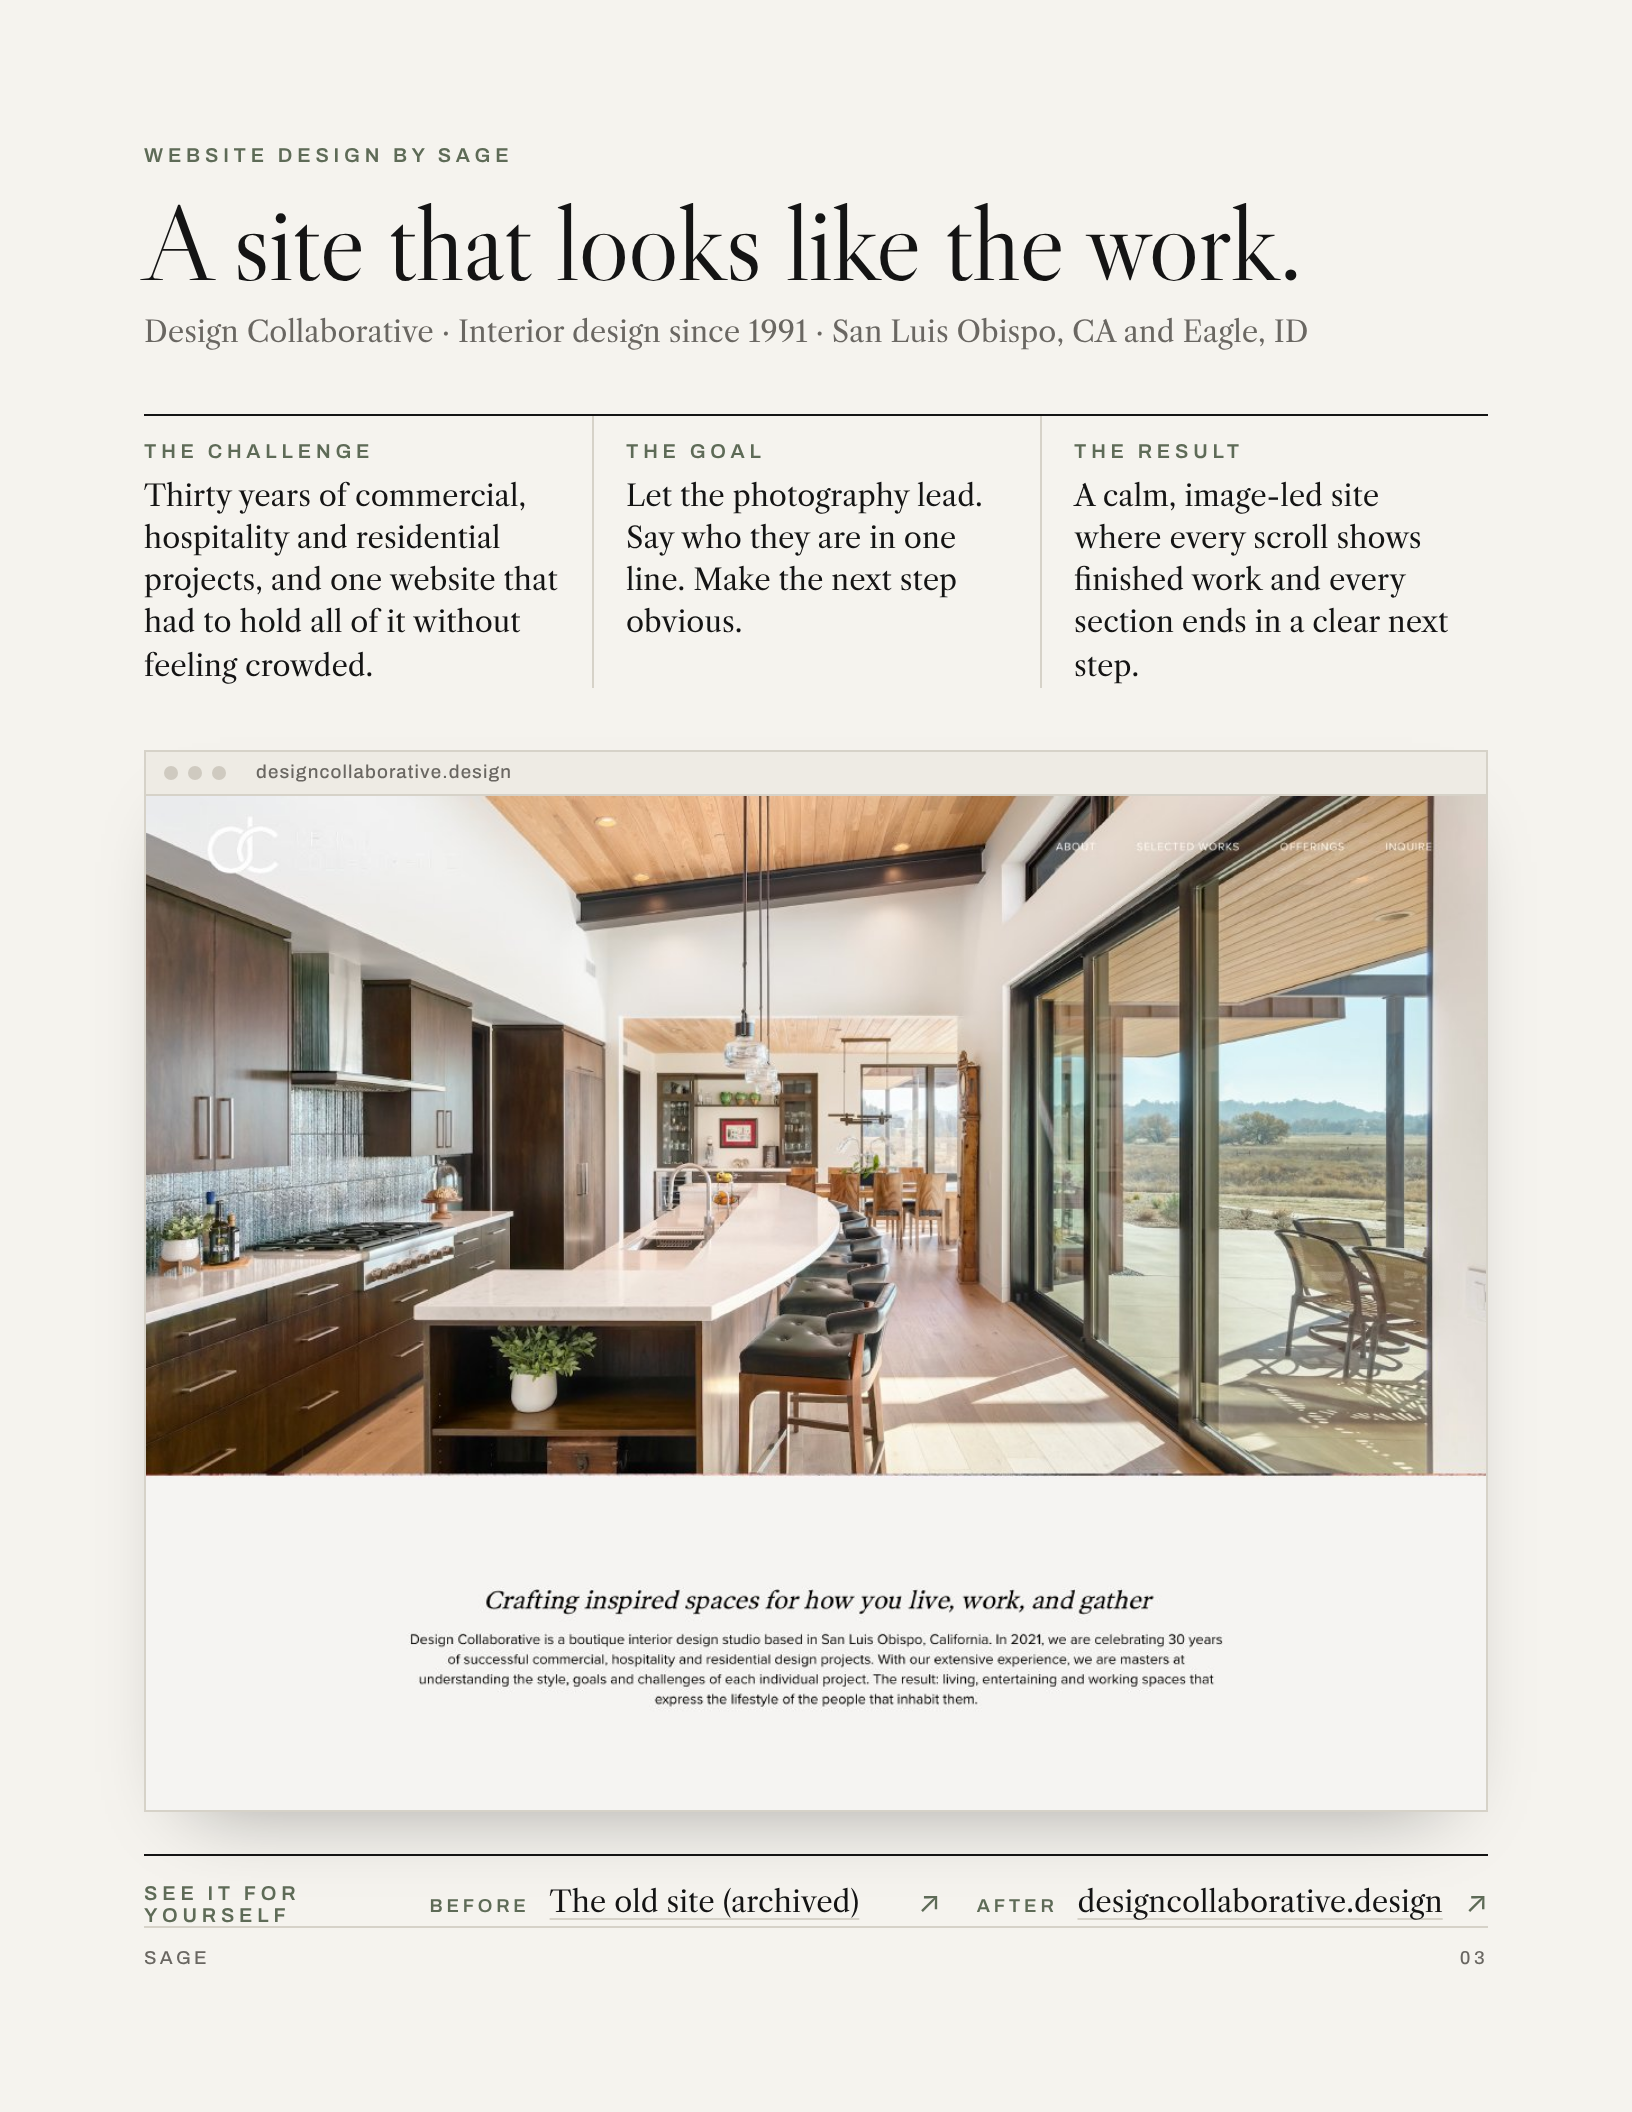
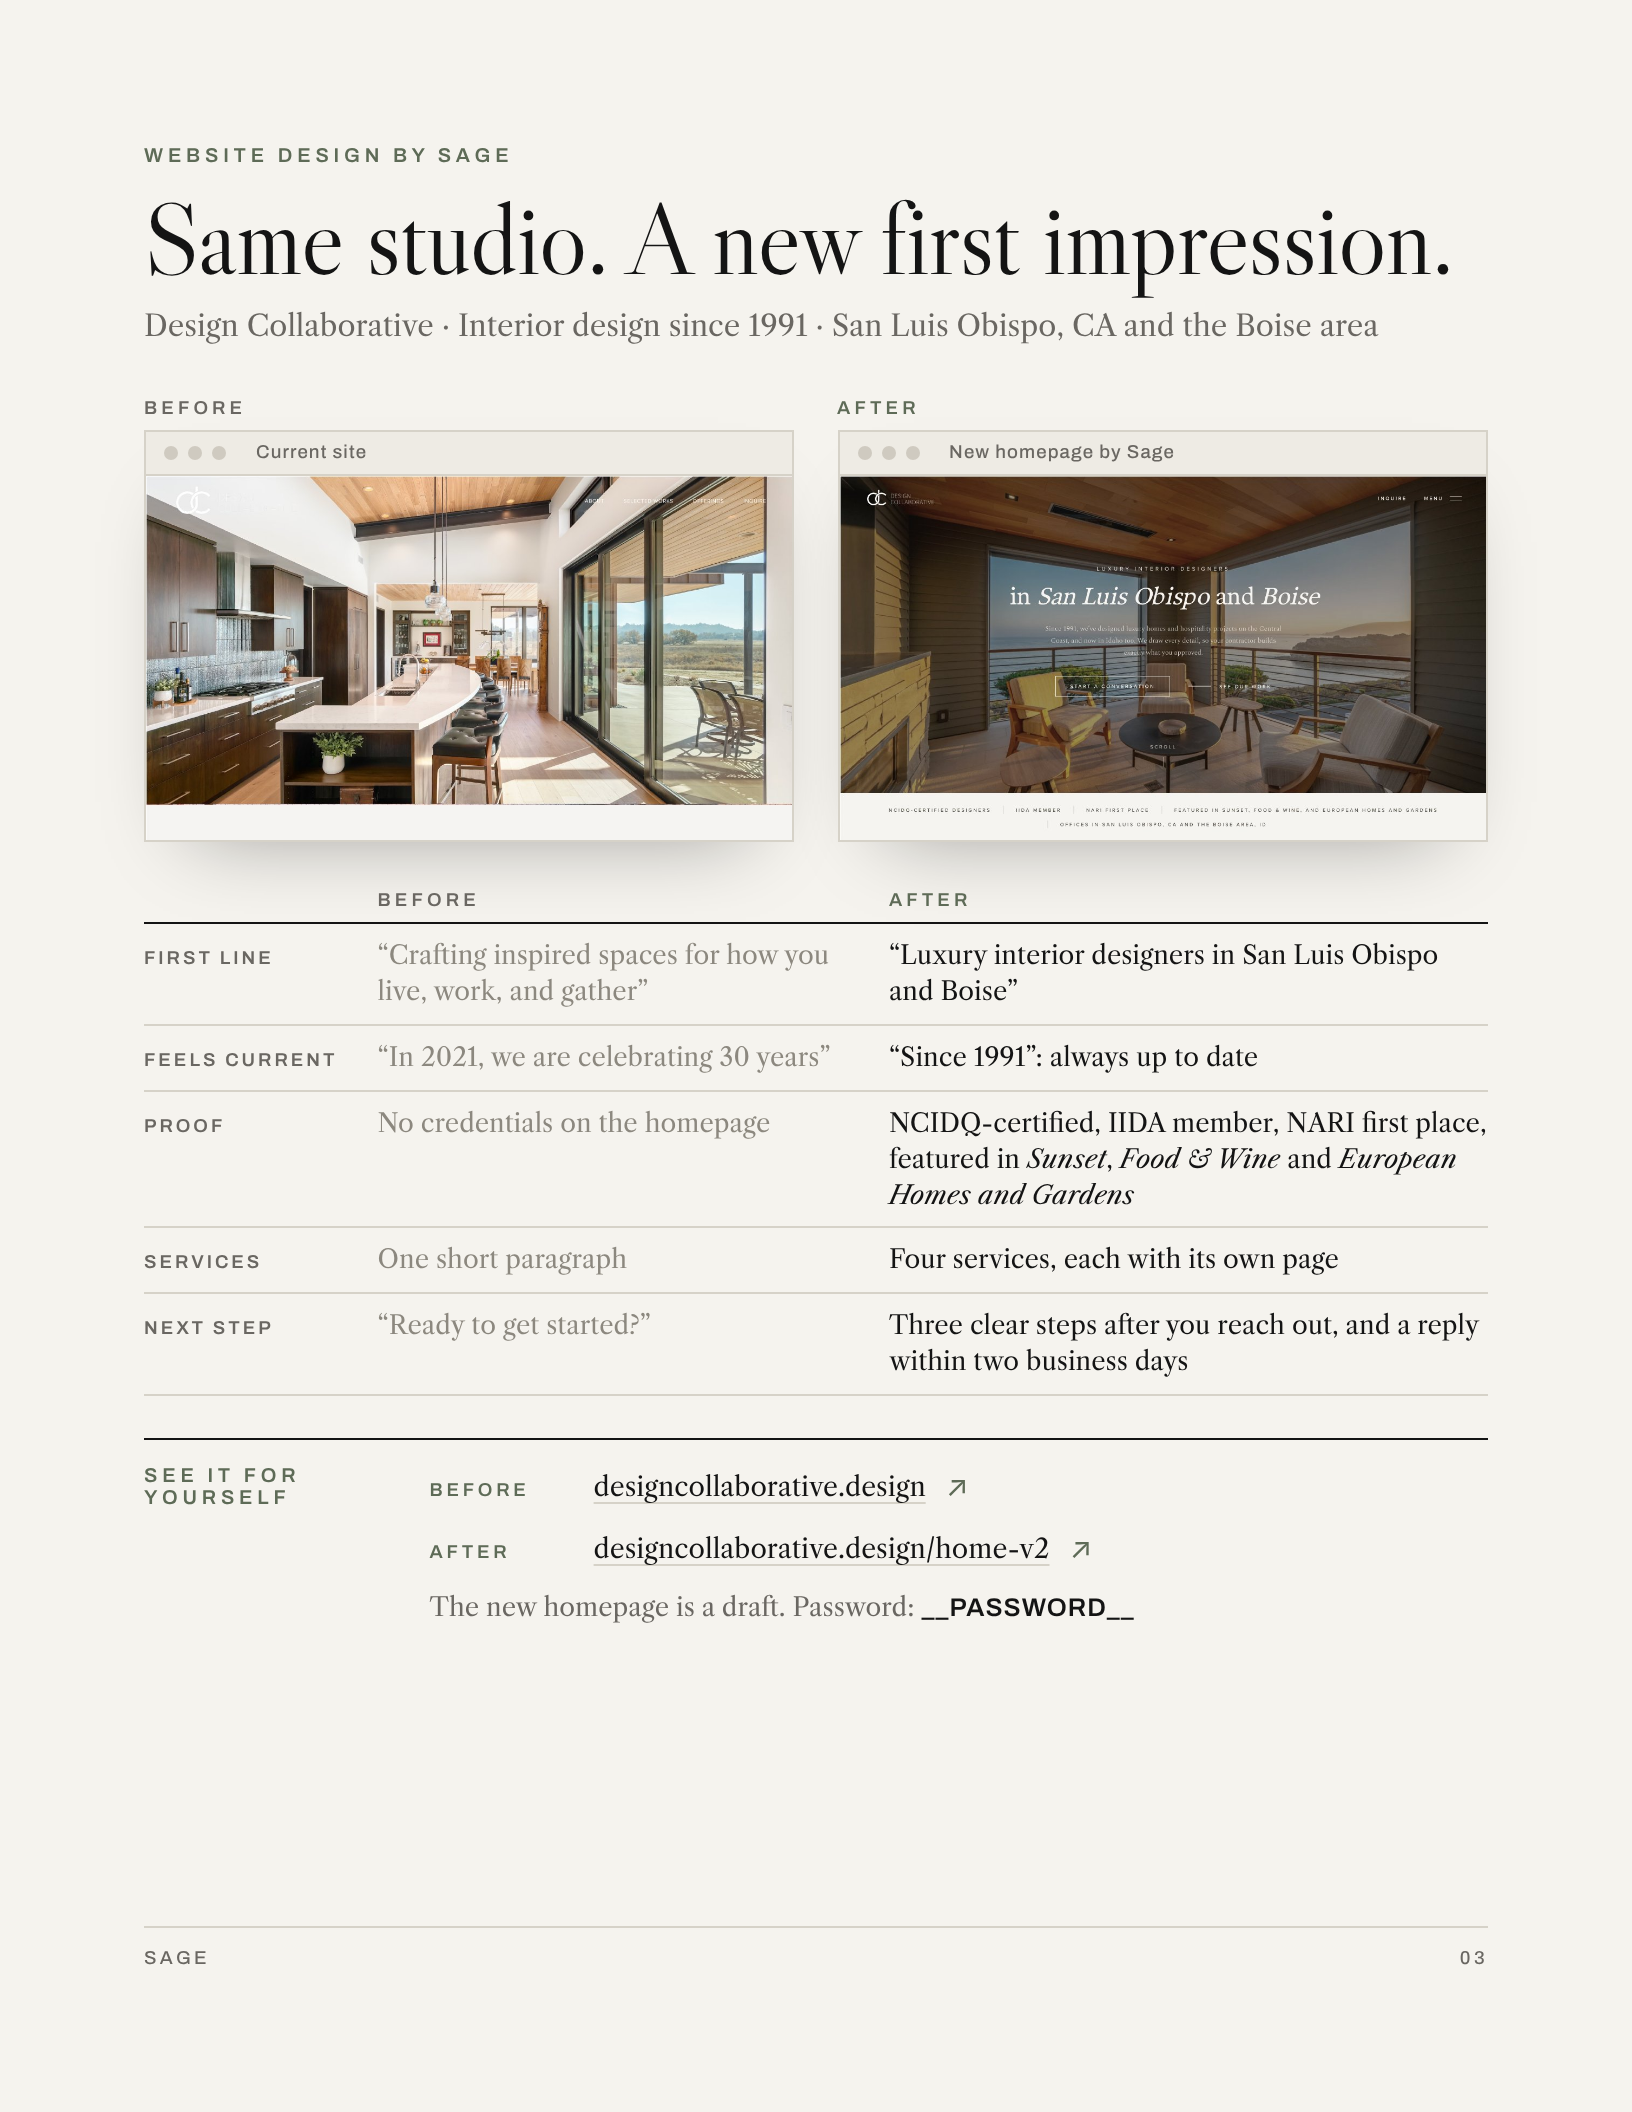
Rebuild website pages as old vs new Design Collaborative homepage
Claude-Session: https://claude.ai/code/session_01WwBvpqkJrLsAwoVKB4p9Tu

diff --git a/case-studies/sage-case-study-simple.html b/case-studies/sage-case-study-simple.html
@@ -94,6 +94,38 @@ em { font-style: italic; }
 .links .tag { font: 600 7pt var(--f-sans); letter-spacing: 0.2em; text-transform: uppercase; color: var(--sage); }
 .links .t { font-size: 11pt; text-decoration: underline; text-decoration-color: var(--rule); text-underline-offset: 3px; }
 .links .arr { color: var(--sage); }
+
+.duo { display: grid; grid-template-columns: 1fr 1fr; gap: 0.22in; }
+.duo figure { margin: 0; display: grid; gap: 6px; }
+.duo .tag { font: 600 7pt var(--f-sans); letter-spacing: 0.22em; text-transform: uppercase; color: var(--grey); }
+.duo .tag.after { color: var(--sage); }
+.duo img { aspect-ratio: 796 / 448; object-fit: cover; object-position: top; }
+.cmp-head, .cmp { display: grid; grid-template-columns: 1.05in 1fr 1.25fr; gap: 0 16px; }
+.cmp-head { border-bottom: 1px solid var(--ink); padding-bottom: 6px; }
+.cmp-head span { font: 600 7pt var(--f-sans); letter-spacing: 0.22em; text-transform: uppercase; color: var(--grey); }
+.cmp-head span:last-child { color: var(--sage); }
+.cmp { border-bottom: 1px solid var(--rule); padding: 7px 0; align-items: baseline; }
+.cmp .k { font: 600 7pt var(--f-sans); letter-spacing: 0.16em; text-transform: uppercase; color: var(--grey); }
+.cmp .b { font-size: 9.6pt; line-height: 1.4; color: #8C887F; }
+.cmp .a { font-size: 9.6pt; line-height: 1.4; color: var(--ink); }
+.links { grid-template-columns: 1.3in 1fr; row-gap: 8px; }
+.links .kicker { grid-row: span 2; align-self: start; }
+.links a { grid-column: 2; grid-template-columns: 0.75in auto auto; justify-content: start; }
+.links .tag2 { font: 600 7pt var(--f-sans); letter-spacing: 0.2em; text-transform: uppercase; color: var(--sage); }
+.links .t { font-size: 10pt; }
+.pw { margin-top: 8px; margin-left: calc(1.3in + 18px); font-size: 9.6pt; color: var(--grey); }
+.pw b { color: var(--ink); font-family: var(--f-sans); font-weight: 600; letter-spacing: 0.04em; }
+.strips { display: grid; grid-template-columns: repeat(3, 1fr); gap: 0.2in; }
+.strip { position: relative; border: 1px solid var(--rule); box-shadow: 0 14px 30px -20px rgba(0,0,0,.4); }
+.strip img { display: block; width: 100%; height: auto; }
+.two-col { display: grid; grid-template-columns: 1fr 1fr; column-gap: 0.3in; }
+.two-col li { padding-top: 8px; padding-bottom: 8px; font-size: 9.6pt; }
+.two-col li::before { top: 8px; }
+.two-col b { font-size: 11.5pt; }
+.cta.wide { grid-template-columns: 1fr auto; display: grid; align-items: center; padding: 14px 20px; }
+.cta.wide h2 { font-size: 17pt; }
+.cta.wide p { font-size: 9.6pt; }
+.addr2 { font: 600 7.5pt var(--f-sans); letter-spacing: 0.12em; text-transform: uppercase; color: var(--on-night); }
 .page > * { flex-shrink: 0; }
 </style>
 </head>
@@ -149,73 +181,73 @@ em { font-style: italic; }
   <div class="foot"><span>Sage</span><span>02</span></div>
 </section>
 
-<!-- ============ PAGE 3 · WEBSITE STORY ============ -->
+<!-- ============ PAGE 3 · WEBSITE BEFORE / AFTER ============ -->
 <section class="page">
   <p class="kicker">Website design by Sage</p>
   <div style="height:10px"></div>
-  <h2 style="font-size:40pt;">A site that looks like the work.</h2>
+  <h2 style="font-size:38pt;">Same studio. A new first impression.</h2>
   <div style="height:6px"></div>
-  <p style="font-size:11pt; color:var(--grey);">Design Collaborative · Interior design since 1991 · San Luis Obispo, CA and Eagle, ID</p>
-  <div style="height:0.3in"></div>
+  <p style="font-size:11pt; color:var(--grey);">Design Collaborative · Interior design since 1991 · San Luis Obispo, CA and the Boise area</p>
+  <div style="height:0.25in"></div>
 
-  <div class="story">
-    <div><span class="kicker">The challenge</span><p>Thirty years of commercial, hospitality and residential projects, and one website that had to hold all of it without feeling crowded.</p></div>
-    <div><span class="kicker">The goal</span><p>Let the photography lead. Say who they are in one line. Make the next step obvious.</p></div>
-    <div><span class="kicker">The result</span><p>A calm, image-led site where every scroll shows finished work and every section ends in a clear next step.</p></div>
+  <div class="duo">
+    <figure>
+      <span class="tag">Before</span>
+      <div class="browser"><div class="bar"><i></i><i></i><i></i><span>Current site</span></div><img src="img/dcold-hero.jpg" alt="The current Design Collaborative homepage: a kitchen photo with a small logo and menu."></div>
+    </figure>
+    <figure>
+      <span class="tag after">After</span>
+      <div class="browser"><div class="bar"><i></i><i></i><i></i><span>New homepage by Sage</span></div><img src="img/dcnew-hero.jpg" alt="The new Design Collaborative homepage: Luxury interior designers in San Luis Obispo and Boise, over a photo of a terrace above the ocean, with a credentials bar below."></div>
+    </figure>
   </div>
 
-  <div style="height:0.32in"></div>
-  <div class="browser">
-    <div class="bar"><i></i><i></i><i></i><span>designcollaborative.design</span></div>
-    <img src="img/dc-home.jpg" alt="Design Collaborative homepage: a wood-ceilinged kitchen with a curved island, and the line Crafting inspired spaces for how you live, work, and gather.">
-  </div>
+  <div style="height:0.25in"></div>
+  <div class="cmp-head"><span></span><span>Before</span><span>After</span></div>
+  <div class="cmp"><span class="k">First line</span><span class="b">“Crafting inspired spaces for how you live, work, and gather”</span><span class="a">“Luxury interior designers in San Luis Obispo and Boise”</span></div>
+  <div class="cmp"><span class="k">Feels current</span><span class="b">“In 2021, we are celebrating 30 years”</span><span class="a">“Since 1991”: always up to date</span></div>
+  <div class="cmp"><span class="k">Proof</span><span class="b">No credentials on the homepage</span><span class="a">NCIDQ-certified, IIDA member, NARI first place, featured in <em>Sunset</em>, <em>Food &amp; Wine</em> and <em>European Homes and Gardens</em></span></div>
+  <div class="cmp"><span class="k">Services</span><span class="b">One short paragraph</span><span class="a">Four services, each with its own page</span></div>
+  <div class="cmp"><span class="k">Next step</span><span class="b">“Ready to get started?”</span><span class="a">Three clear steps after you reach out, and a reply within two business days</span></div>
 
   <div class="links">
     <p class="kicker">See it for yourself</p>
-    <a href="https://web.archive.org/web/2023/https://designcollaborative.design/"><span class="tag">Before</span><span class="t">The old site (archived)</span><span class="arr">↗</span></a>
-    <a href="https://designcollaborative.design/"><span class="tag">After</span><span class="t">designcollaborative.design</span><span class="arr">↗</span></a>
+    <a href="https://designcollaborative.design/"><span class="tag2">Before</span><span class="t">designcollaborative.design</span><span class="arr">↗</span></a>
+    <a href="https://designcollaborative.design/home-v2"><span class="tag2">After</span><span class="t">designcollaborative.design/home-v2</span><span class="arr">↗</span></a>
   </div>
+  <p class="pw">The new homepage is a draft. Password: <b>__PASSWORD__</b></p>
 
   <div class="foot"><span>Sage</span><span>03</span></div>
 </section>
 
-<!-- ============ PAGE 4 · ANNOTATED SCROLL ============ -->
+<!-- ============ PAGE 4 · NEW HOMEPAGE ANNOTATED ============ -->
 <section class="page">
-  <p class="kicker">The homepage, top to bottom</p>
+  <p class="kicker">The new homepage, top to bottom</p>
   <div style="height:10px"></div>
-  <h2 style="font-size:40pt;">Every scroll, on purpose.</h2>
-  <div style="height:0.3in"></div>
+  <h2 style="font-size:38pt;">Every scroll, on purpose.</h2>
+  <div style="height:0.22in"></div>
 
-  <div class="scroll-row">
-    <div class="scroll">
-      <div class="browser">
-        <div class="bar"><i></i><i></i><i></i></div>
-        <div class="shot">
-          <img src="img/dc-fullpage.jpg" alt="The full Design Collaborative homepage, from hero photograph to footer.">
-          <span class="pin" style="top:8%">1</span>
-          <span class="pin" style="top:21%">2</span>
-          <span class="pin" style="top:34%">3</span>
-          <span class="pin" style="top:54%">4</span>
-          <span class="pin" style="top:82%">5</span>
-          <span class="pin" style="top:96%">6</span>
-        </div>
-      </div>
-    </div>
-    <div class="notes">
-      <ol class="callouts">
-        <li><b>Lead with the work.</b> A full-width project photo is the first thing a visitor sees.</li>
-        <li><b>One line of positioning.</b> “Crafting inspired spaces for how you live, work, and gather,” then a short paragraph.</li>
-        <li><b>Services, briefly.</b> One paragraph over photography, with a single link to learn more.</li>
-        <li><b>Three projects, not thirty.</b> A curated selection, with one button to the full portfolio.</li>
-        <li><b>One clear invitation.</b> “Ready to get started?” and a single button.</li>
-        <li><b>Easy to reach.</b> Both studio locations, phone numbers and social links in the footer.</li>
-      </ol>
-      <div class="cta">
-        <h2>Be found. <em>Then be remembered.</em></h2>
-        <p>Book a discovery call and we’ll show you where your site stands today.</p>
-        <p class="addr">SAGEINTERIORDESIGNMARKETING.COM</p>
-      </div>
-    </div>
+  <div class="strips">
+    <div class="strip"><img src="img/dcnew-strip1.jpg" alt="New homepage, top third: hero, credentials, introduction and services."><span class="pin" style="top:9%">1</span><span class="pin" style="top:26%">2</span><span class="pin" style="top:89%">3</span></div>
+    <div class="strip"><img src="img/dcnew-strip2.jpg" alt="New homepage, middle third: drawn and built, who it’s for, and city pages."><span class="pin" style="top:19%">4</span><span class="pin" style="top:47%">5</span><span class="pin" style="top:88%">6</span></div>
+    <div class="strip"><img src="img/dcnew-strip3.jpg" alt="New homepage, bottom third: next steps, recent projects and get in touch."><span class="pin" style="top:12%">7</span><span class="pin" style="top:69%">8</span></div>
+  </div>
+
+  <div style="height:0.22in"></div>
+  <ol class="callouts two-col">
+    <li><b>Says where, right away.</b> The cities clients actually search for.</li>
+    <li><b>Proof before the scroll.</b> Certifications, awards and press in one line.</li>
+    <li><b>Four clear services.</b> Each one leads to its own page.</li>
+    <li><b>What sets them apart.</b> The drawings, shown next to the finished room.</li>
+    <li><b>Who it’s for.</b> People building the space they’ve planned for years.</li>
+    <li><b>A page for each city.</b> Central Coast and Mountain West.</li>
+    <li><b>No guessing what’s next.</b> Three steps after you reach out.</li>
+    <li><b>One invitation.</b> A reply within two business days.</li>
+  </ol>
+
+  <div style="height:0.2in"></div>
+  <div class="cta wide">
+    <h2>Be found. <em>Then be remembered.</em></h2>
+    <p>Book a discovery call · <span class="addr2">sageinteriordesignmarketing.com</span></p>
   </div>
 
   <div class="foot"><span>Sage</span><span>04</span></div>
